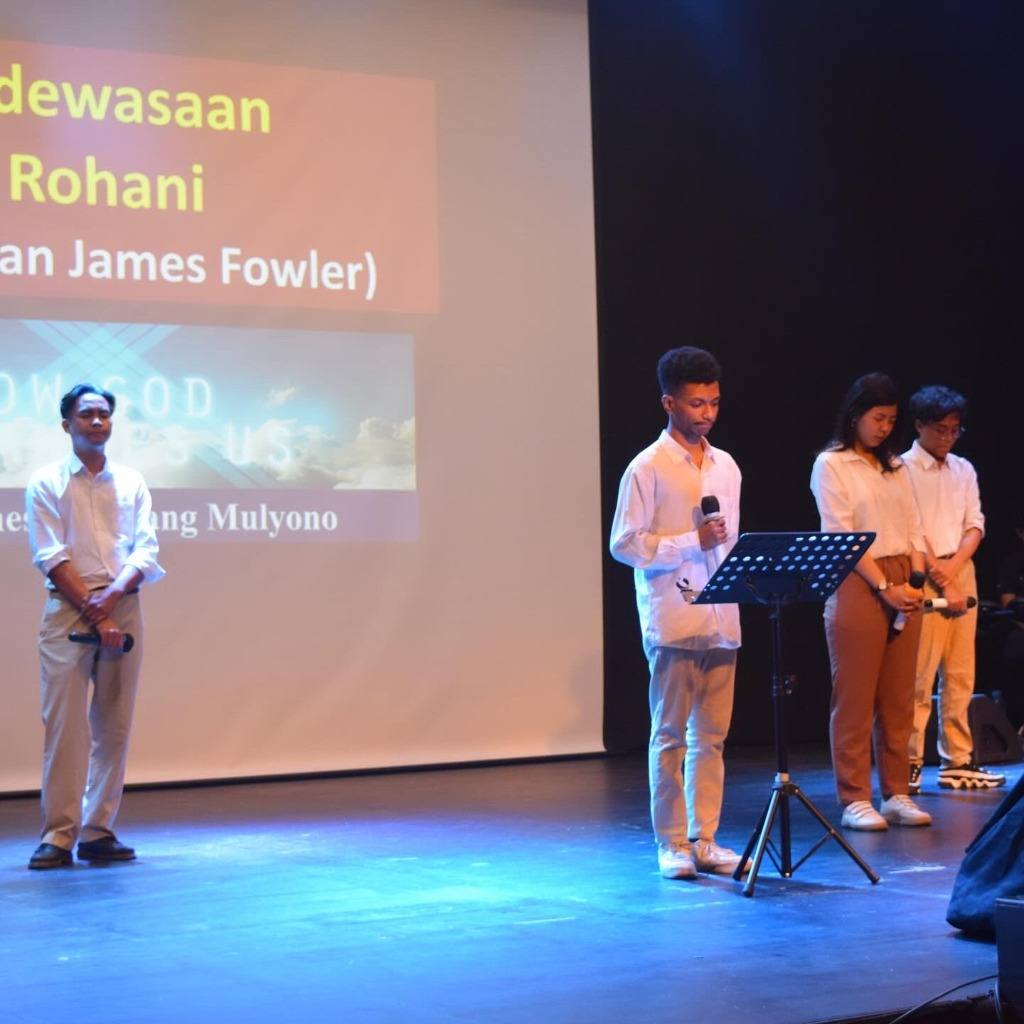
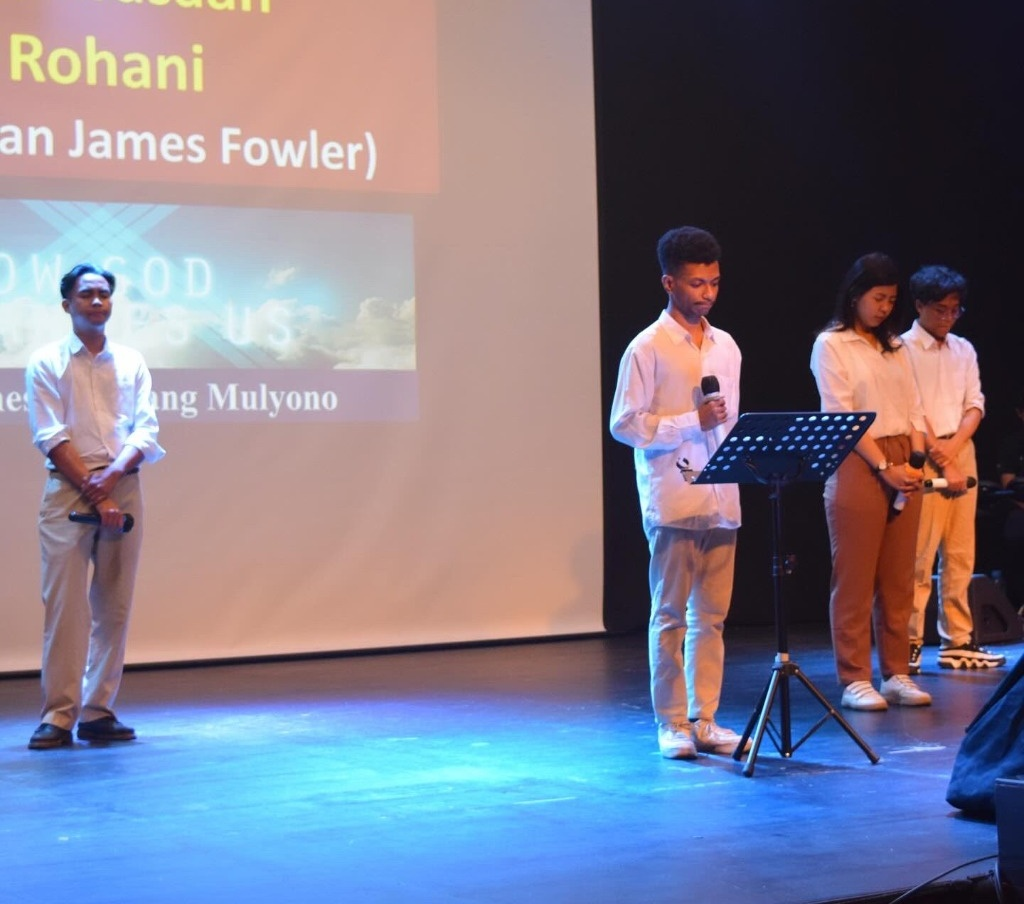
fix(activity): crop excess tops and optimize framing across all activity photos

diff --git a/src/data/portfolioData.ts b/src/data/portfolioData.ts
@@ -561,7 +561,7 @@ export const portfolioData: PortfolioData = {
         locationJapanese: "マラナタキリスト教大学（バンドン）",
         aspect: "vertical",
         category: "activity",
-        objectPosition: "center 32%",
+        objectPosition: "center 70%",
       },
       {
         id: "gal-activity-worship",
@@ -578,7 +578,7 @@ export const portfolioData: PortfolioData = {
         locationJapanese: "マラナタキリスト教大学（バンドン）",
         aspect: "wide",
         category: "activity",
-        objectPosition: "center 20%",
+        objectPosition: "center 65%",
       },
       {
         id: "gal-activity-teacher",
@@ -595,7 +595,7 @@ export const portfolioData: PortfolioData = {
         locationJapanese: "スコラ・イマン（西ジャワ州カラワン）",
         aspect: "vertical",
         category: "activity",
-        objectPosition: "center 60%",
+        objectPosition: "center 65%",
       },
       {
         id: "gal-daily-friend",
@@ -670,7 +670,7 @@ export const portfolioData: PortfolioData = {
         locationJapanese: "ジャカルタ・インターナショナル・カレッジ（ジャカルタ）",
         aspect: "vertical",
         category: "activity",
-        objectPosition: "center 35%",
+        objectPosition: "center 40%",
       },
       {
         id: "gal-jic-group-happi",
@@ -687,7 +687,7 @@ export const portfolioData: PortfolioData = {
         locationJapanese: "マラナタキリスト教大学（バンドン）",
         aspect: "wide",
         category: "activity",
-        objectPosition: "center 32%",
+        objectPosition: "center 25%",
       },
     ],
     video: {
